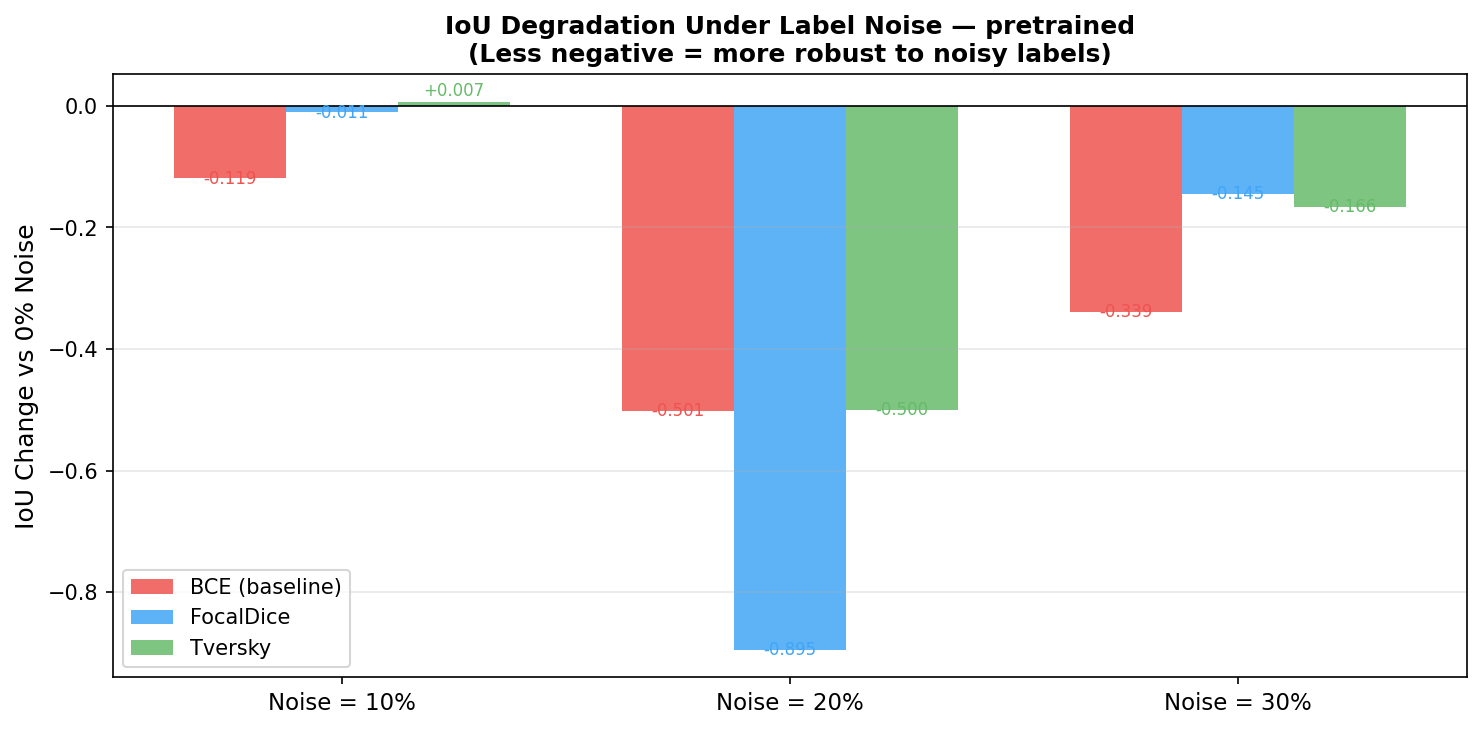
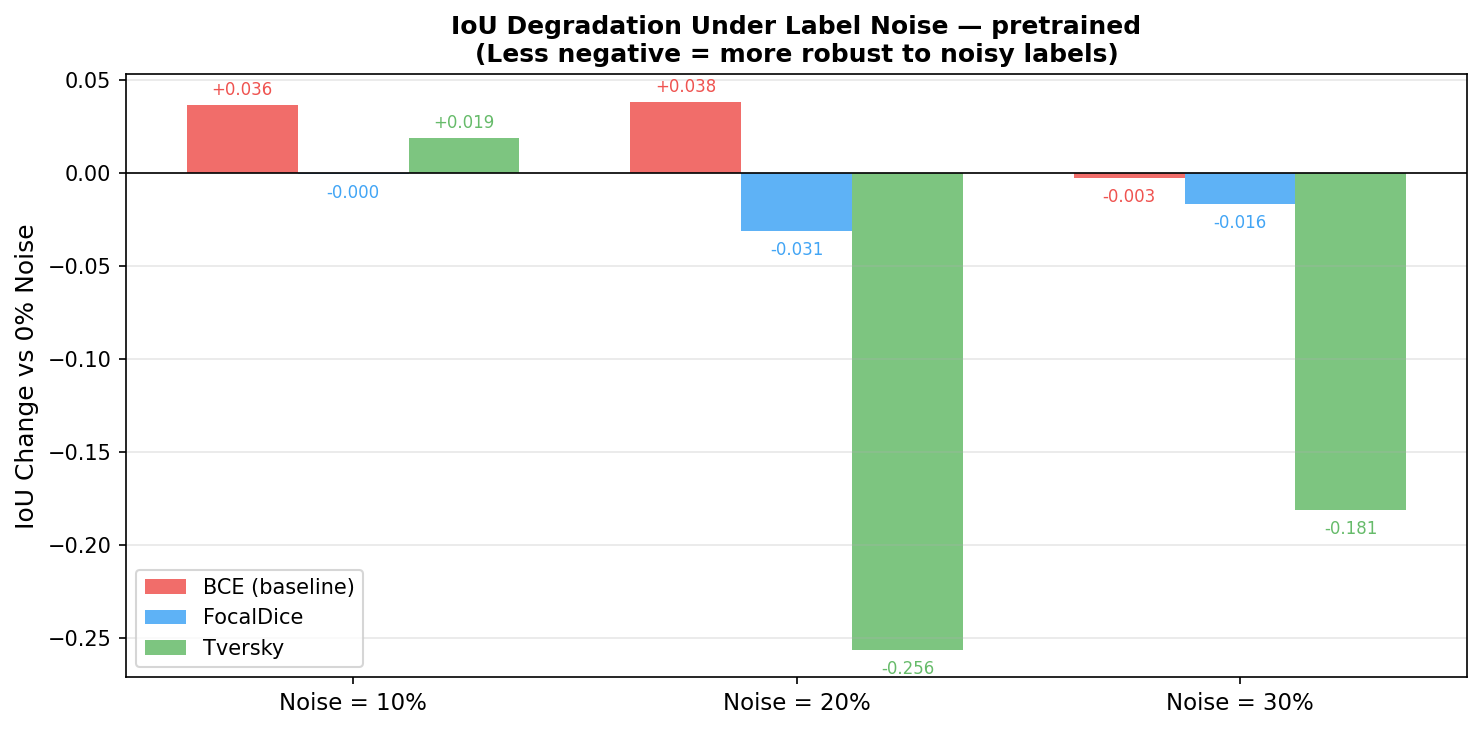
Update label noise results and README with corrected run

diff --git a/README.md b/README.md
@@ -226,18 +226,16 @@ The model was trained with varying fractions of the training set (30 epochs each
 
 Models trained at 0–30% label noise, evaluated on a clean validation set:
 
-| Loss | 0% noise | 10% noise | 20% noise | 30% noise |
-|---|---|---|---|---|
-| BCE | 0.847 | 0.728 | 0.346 | 0.508 |
-| Tversky | 0.857 | **0.864** | 0.357 | 0.691 |
-| **FocalDice** | **0.895** | 0.884 | **0.000*** | **0.750** |
-
-*FocalDice collapsed at 20% noise in this run due to training instability — Tversky was more stable at mid-range noise.
+| Loss | 0% noise | 10% noise | 20% noise | 30% noise | Drop at 30% |
+|---|---|---|---|---|---|
+| BCE | 0.855 | 0.892 | 0.893 | 0.852 | -0.003 |
+| **FocalDice** | **0.895** | **0.895** | 0.864 | **0.879** | **-0.016** |
+| Tversky | 0.870 | 0.889 | 0.613 | 0.689 | -0.181 |
 
 ![Label Noise Results](results/label_noise/label_noise_pretrained.png)
 ![Label Noise Degradation](results/label_noise/label_noise_degradation_pretrained.png)
 
-**Key finding:** BCE degrades severely at 30% noise (-0.339 IoU). FocalDice and Tversky retain significantly higher performance, confirming that overlap-based losses are more robust to annotation noise.
+**Key finding:** FocalDice is the most stable loss function — only 0.016 IoU drop at 30% noise. Tversky collapses severely at 20%+ noise (-0.181 at 30%). BCE is surprisingly robust at low noise but FocalDice consistently achieves higher absolute IoU across all noise levels, confirming it as the best choice for noisy annotation settings.
 
 ---
 
